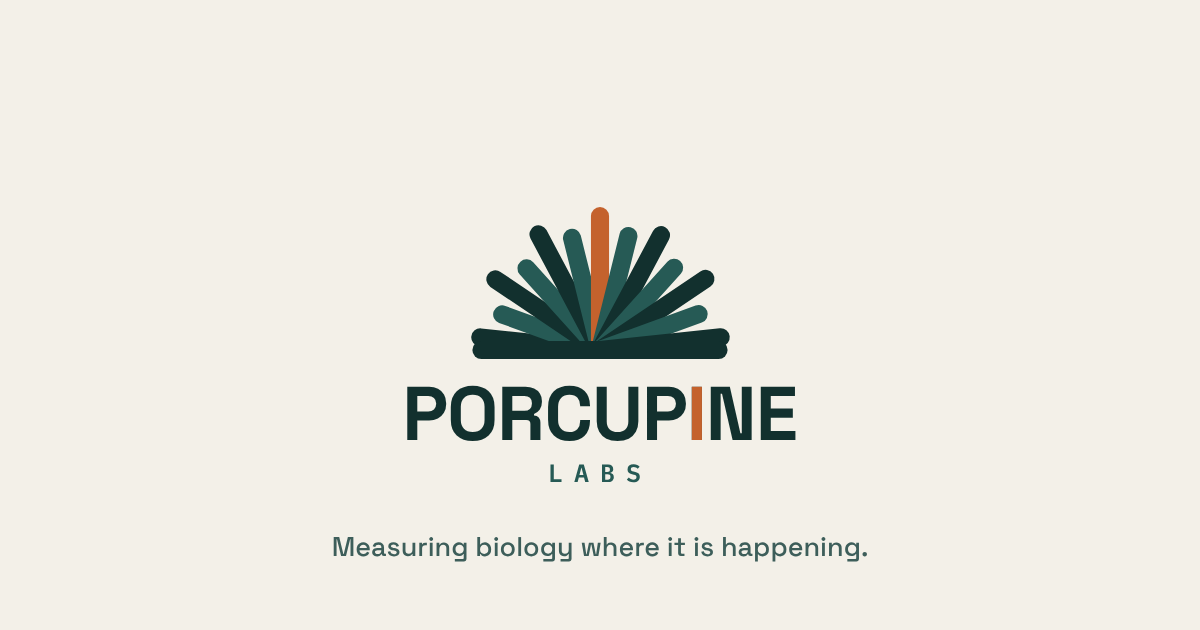
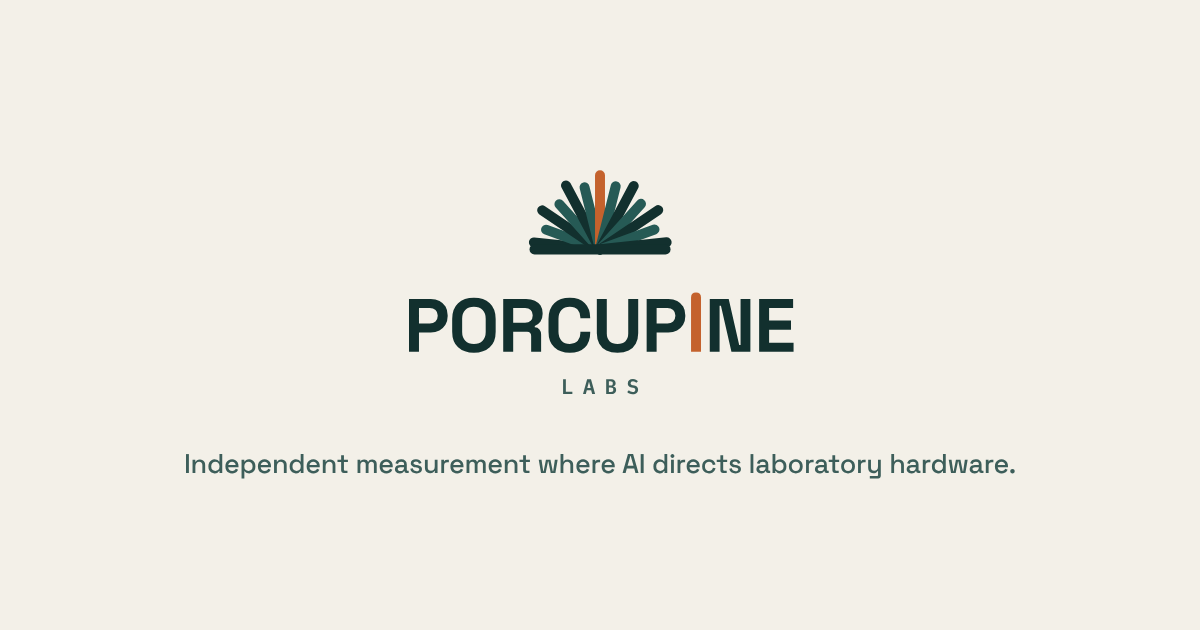
fable update

Changed region(s): [[0.3392, 0.2714, 0.6783, 0.573], [0.1542, 0.6032, 0.8633, 0.7841], [0.2775, 0.8444, 0.74, 0.9048]]

diff --git a/index.html b/index.html
@@ -9,7 +9,7 @@
 <meta property="og:site_name" content="Porcupine Labs">
 <meta property="og:title" content="Porcupine Labs">
 <meta property="og:url" content="https://porcupinelabs.org/">
-<meta property="og:description" content="Measuring biology where it is happening. An independent nonprofit in formation, working at the boundary where AI systems direct physical laboratory hardware.">
+<meta property="og:description" content="Independent measurement where AI directs laboratory hardware. An independent nonprofit in formation, working at the boundary where AI systems direct physical laboratory instruments.">
 <meta property="og:image" content="https://porcupinelabs.org/og.png">
 <meta property="og:image:width" content="1200">
 <meta property="og:image:height" content="630">
@@ -20,9 +20,10 @@
 {"@context":"https://schema.org","@type":"NGO","name":"Porcupine Labs",
 "url":"https://porcupinelabs.org/","logo":"https://porcupinelabs.org/favicon.svg",
 "email":"john@porcupinelabs.org",
-"slogan":"Measuring biology where it is happening.",
-"description":"Independent nonprofit in formation. Works at the boundary where AI systems direct physical laboratory hardware, evaluating properties of execution and the records facilities keep of it.",
+"slogan":"Independent measurement where AI directs laboratory hardware.",
+"description":"Independent nonprofit in formation. Measures whether safety constraints hold where AI systems direct physical laboratory hardware, and whether a facility's records establish afterward what was done.",
 "address":{"@type":"PostalAddress","addressRegion":"CA","addressCountry":"US"},
+"founder":[{"@type":"Person","name":"John D. Tran"},{"@type":"Person","name":"Patrick M. Shih"}],
 "knowsAbout":["biosecurity","laboratory automation","AI safety","provenance","reconstructability"]}
 </script>
 <title>Porcupine Labs</title>
@@ -33,11 +34,12 @@
 <link rel="stylesheet" href="https://fonts.googleapis.com/css2?family=Space+Grotesk:wght@500;700&family=IBM+Plex+Sans:wght@400;500&family=IBM+Plex+Mono:wght@400;600&display=swap">
 <style>
 /* Layout: one 820px column, label left and body right, hairline rules between.
-   Brand palette only. Quill orange appears once, in the I. */
+   Brand palette only. The quill is a stroke: figures are built from top rules and
+   round-capped lines. Quill orange marks where Porcupine works, once per figure. */
 :root{
   --bg:#F3F0E8; --ink:#12302E; --muted:#3D5E5A; --subtle:#6F8783;
   --rule:#D9D2C0; --rule-strong:#12302E; --quill:#C4622D;
-  --mark:#12302E; --mark-lt:#4E7A75;
+  --mark:#12302E; --mark-lt:#265A55;
   --display:"Space Grotesk",system-ui,sans-serif;
   --body:"IBM Plex Sans",system-ui,-apple-system,"Helvetica Neue",sans-serif;
   --mono:"IBM Plex Mono",ui-monospace,SFMono-Regular,Menlo,monospace;
@@ -60,7 +62,7 @@ header{text-align:center;padding-bottom:52px;border-bottom:1px solid var(--rule-
   clip-path:inset(50%);white-space:nowrap}
 .labs{font-family:var(--mono);font-weight:600;font-size:clamp(12px,2.1vw,15px);
   letter-spacing:.44em;color:var(--muted);margin-top:11px;text-indent:.44em}
-.lead{max-width:24ch;margin:38px auto 0;font-family:var(--display);font-weight:500;
+.lead{max-width:26ch;margin:38px auto 0;font-family:var(--display);font-weight:500;
   font-size:clamp(21px,3.4vw,30px);line-height:1.26;letter-spacing:-.015em;
   color:var(--ink);text-wrap:balance}
 
@@ -72,6 +74,33 @@ h2{font-family:var(--display);font-size:15.5px;font-weight:700;letter-spacing:.0
 .body p{color:var(--muted);margin-bottom:16px;max-width:64ch}
 .body p:last-child{margin-bottom:0}
 .body em{font-style:normal;color:var(--ink);font-weight:500}
+.body a,.fig a{color:var(--ink);text-decoration:none;border-bottom:1px solid var(--quill)}
+.tag{font-family:var(--mono);font-size:11px;font-weight:600;letter-spacing:.16em;
+  text-transform:uppercase;color:var(--subtle);display:block}
+
+/* ---- figures: span both columns ---- */
+.fig{grid-column:1/-1}
+.cap{margin-top:18px;color:var(--muted);font-size:14.5px;max-width:70ch}
+
+/* the stack: five stages, each under a top rule */
+.stack{list-style:none;display:grid;grid-template-columns:repeat(5,minmax(0,1fr));gap:18px}
+.stack li{border-top:3px solid var(--mark);padding-top:14px}
+.stack li.q{border-top:6px solid var(--quill);padding-top:11px}
+.stack b{display:block;font-family:var(--display);font-weight:700;font-size:16px;
+  line-height:1.25;margin:8px 0 6px;color:var(--ink)}
+.stack span.d{display:block;color:var(--muted);font-size:14px;line-height:1.45}
+
+/* rows: questions, rungs, record, people */
+.rows{list-style:none}
+.rows li{display:grid;grid-template-columns:88px minmax(0,1fr);gap:18px;
+  padding:14px 0;border-top:1px solid var(--rule)}
+.rows li:last-child{padding-bottom:0}
+.rows b{display:block;font-weight:500;color:var(--ink)}
+.rows .d{display:block;color:var(--muted);font-size:15.5px}
+.rows .tag{padding-top:5px}
+
+/* all-of-k strip */
+.strip{display:block;width:100%;max-width:400px;height:auto;margin-top:22px}
 
 /* ---- footer ---- */
 footer{display:grid;grid-template-columns:200px minmax(0,1fr);gap:36px;
@@ -86,6 +115,10 @@ footer{display:grid;grid-template-columns:200px minmax(0,1fr);gap:36px;
   .container{padding-block:40px 64px}
   header{padding-bottom:38px}
   section,footer{grid-template-columns:1fr;gap:14px;padding-block:34px}
+  .stack{grid-template-columns:1fr;gap:0}
+  .stack li,.stack li.q{border-top:0;border-left:3px solid var(--mark);padding:10px 0 14px 16px}
+  .stack li.q{border-left:6px solid var(--quill);padding-left:13px}
+  .rows li{grid-template-columns:1fr;gap:4px}
 }
 :focus-visible{outline:2px solid var(--quill);outline-offset:3px}
 </style>
@@ -113,7 +146,7 @@ footer{display:grid;grid-template-columns:200px minmax(0,1fr);gap:36px;
     <svg class="wordmark" viewBox="0 0 519.2 82.5" role="img" aria-label="Porcupine"><title>Porcupine</title><g transform="translate(0 80.5)"><g transform="translate(0.000 0) scale(0.100000 -0.100000)"><path fill="#12302E" d="M66 0V700H354Q420 700 470.5 673.5Q521 647 549.5 599.0Q578 551 578 485V471Q578 406 548.5 357.5Q519 309 468.5 282.5Q418 256 354 256H198V0ZM198 376H341Q388 376 417.0 402.0Q446 428 446 473V483Q446 528 417.0 554.0Q388 580 341 580H198Z"/></g><g transform="translate(58.800 0) scale(0.100000 -0.100000)"><path fill="#12302E" d="M338 -14Q206 -14 128.0 58.5Q50 131 50 266V434Q50 569 128.0 641.5Q206 714 338 714Q470 714 548.0 641.5Q626 569 626 434V266Q626 131 548.0 58.5Q470 -14 338 -14ZM338 104Q412 104 453.0 147.0Q494 190 494 262V438Q494 510 453.0 553.0Q412 596 338 596Q265 596 223.5 553.0Q182 510 182 438V262Q182 190 223.5 147.0Q265 104 338 104Z"/></g><g transform="translate(124.800 0) scale(0.100000 -0.100000)"><path fill="#12302E" d="M66 0V700H370Q436 700 485.0 677.0Q534 654 561.0 612.0Q588 570 588 513V501Q588 438 558.0 399.0Q528 360 484 342V324Q524 322 546.0 296.5Q568 271 568 229V0H436V210Q436 234 423.5 249.0Q411 264 382 264H198V0ZM198 384H356Q403 384 429.5 409.5Q456 435 456 477V487Q456 529 430.0 554.5Q404 580 356 580H198Z"/></g><g transform="translate(186.400 0) scale(0.100000 -0.100000)"><path fill="#12302E" d="M332 -14Q202 -14 126.0 58.5Q50 131 50 266V434Q50 569 126.0 641.5Q202 714 332 714Q461 714 531.5 643.5Q602 573 602 450V444H472V454Q472 516 437.5 556.0Q403 596 332 596Q262 596 222.0 553.0Q182 510 182 436V264Q182 191 222.0 147.5Q262 104 332 104Q403 104 437.5 144.5Q472 185 472 246V264H602V250Q602 127 531.5 56.5Q461 -14 332 -14Z"/></g><g transform="translate(249.200 0) scale(0.100000 -0.100000)"><path fill="#12302E" d="M336 -14Q250 -14 188.5 17.5Q127 49 94.5 107.5Q62 166 62 246V700H194V242Q194 178 230.5 141.0Q267 104 336 104Q405 104 441.5 141.0Q478 178 478 242V700H610V246Q610 166 577.5 107.5Q545 49 483.5 17.5Q422 -14 336 -14Z"/></g><g transform="translate(314.800 0) scale(0.100000 -0.100000)"><path fill="#12302E" d="M66 0V700H354Q420 700 470.5 673.5Q521 647 549.5 599.0Q578 551 578 485V471Q578 406 548.5 357.5Q519 309 468.5 282.5Q418 256 354 256H198V0ZM198 376H341Q388 376 417.0 402.0Q446 428 446 473V483Q446 528 417.0 554.0Q388 580 341 580H198Z"/></g><path fill="#C4622D" d="M380.20 0 L380.20 -71.90 Q380.20 -78.50 386.80 -78.50 Q393.40 -78.50 393.40 -71.90 L393.40 0 Z"/><g transform="translate(398.400 0) scale(0.100000 -0.100000)"><path fill="#12302E" d="M66 0V700H317L456 90H474V700H604V0H353L214 610H196V0Z"/></g><g transform="translate(463.800 0) scale(0.100000 -0.100000)"><path fill="#12302E" d="M66 0V700H516V580H198V413H488V293H198V120H522V0Z"/></g></g></svg>
     <h1 class="sr-only">Porcupine Labs</h1>
     <div class="labs">LABS</div>
-    <p class="lead">Measuring biology where it is happening.</p>
+    <p class="lead">Independent measurement where AI directs laboratory hardware.</p>
   </header>
 
   <main>
@@ -121,55 +154,111 @@ footer{display:grid;grid-template-columns:200px minmax(0,1fr);gap:36px;
       <h2>About the Lab</h2>
       <div class="body">
         <p>Porcupine Labs is an independent nonprofit in formation, based in the San Francisco
-          Bay Area and selected into the Catalyze Impact biosecurity accelerator in 2026.
-          We work at the boundary where AI systems direct physical laboratory hardware.</p>
+          Bay Area. We measure whether safety constraints hold at the point where AI systems
+          direct physical laboratory hardware, and whether the records a facility keeps are
+          enough to establish afterward what was done.</p>
+        <p>Porcupine was selected into the Catalyze Impact biosecurity accelerator in 2026.</p>
+      </div>
+    </section>
+
+    <section>
+      <h2>The Gap</h2>
+      <div class="body">
         <p>Laboratory automation is decades old and installed at scale. What changed is who
           writes the script. Synthesis screening, cryptographic provenance and model
           evaluation each work at the point where they sit: acquisition, the digital artifact,
           the instruction. The instrument itself is unchecked, and the record it leaves does
           not distinguish a protocol a person wrote from one a model wrote.</p>
       </div>
-    </section>
-
-    <section>
-      <h2>Research Approach</h2>
-      <div class="body">
-        <p>We evaluate <em>properties of execution</em> rather than properties of models. That
-          means testing how agentic planners, laboratory execution software and robotic
-          instrumentation behave under ambiguous or adversarial instructions, and asking
-          whether a facility's own records are enough to establish afterward what was done.</p>
-        <p>Our first study is read-only. For a completed run chosen after the fact, we ask how
-          much of it a facility can reconstruct from the systems it already runs: the
-          electronic lab notebook, the inventory and sample management system, instrument
-          logs, the scheduler. Those systems were built to operate a laboratory and to satisfy
-          audit, and the open question is whether what they capture is sufficient to establish
-          what an agent-directed run did, down to which software version and which
-          configuration stood behind each decision. What we find turns into technical
-          specification work on log integrity, provenance, and capability-scoped
-          authorization.</p>
+      <div class="fig">
+        <ol class="stack" aria-label="Where each control sits, from order to bench">
+          <li><span class="tag">01 Order</span><b>Synthesis screening</b><span class="d">Verifies sequence intent.</span></li>
+          <li><span class="tag">02 Instruction</span><b>Model refusal</b><span class="d">Tests text and code outputs.</span></li>
+          <li><span class="tag">03 Protocol</span><b>Biosafety review</b><span class="d">Approves the written protocol.</span></li>
+          <li class="q"><span class="tag">04 Execution</span><b>Porcupine</b><span class="d">Measures what happens here.</span></li>
+          <li><span class="tag">05 The bench</span><b>Material moves</b><span class="d">The physical event itself.</span></li>
+        </ol>
+        <p class="cap">A mistake and an intent produce the same physical event at the bench,
+          so a control that reads intent does not reach this layer.</p>
       </div>
     </section>
 
     <section>
-      <h2>Mission</h2>
+      <h2>Why Now</h2>
       <div class="body">
-        <p>Biology has gone digital. Models now work directly on sequence and structure,
-          predicting how a protein folds and proposing designs that hold up at the bench, and
-          capability in that half of the field is improving faster than any tool that came
-          before it. Drug discovery is where the gains are most visible. Learned models are
-          designing antibodies, de novo binders and small-molecule candidates that have
-          reached clinical trials, and each generation of model has arrived stronger than the
-          one before it.</p>
-        <p>The physical half is moving as well. Robotics, computer vision and machine vision
-          are making the handling, imaging and judgment steps of an experiment cheaper and
-          more repeatable each year, which turns work that once depended on a particular pair
-          of hands into work a facility can run at volume.</p>
-        <p>Those two curves are now improving together, and biology is acquiring a scaling
-          effect of a kind the field has not seen. Every one of those advances arrives at the
-          same place: an instrument that moves material. Porcupine works there. We build the
-          evaluation methods and the authorization standard that existing biosecurity
-          frameworks call for but do not specify, so the record of a physical experiment
-          stays intelligible to a person as the number of experiments grows.</p>
+        <p>Models now work directly on sequence and structure, and robotics is making the
+          handling and imaging steps of an experiment cheaper and more repeatable each year.
+          Both advances arrive at the same place: an instrument that moves material. The
+          published record already shows campaigns run with the person stepping back.</p>
+        <ul class="rows">
+          <li><span class="tag">2025</span><div><b><a href="https://doi.org/10.1038/s41467-025-61209-y">Singh et al., Nature Communications</a></b>
+            <span class="d">A platform combining machine learning, large language models and biofoundry automation engineered two enzymes in four rounds over four weeks.</span></div></li>
+          <li><span class="tag">2024</span><div><b><a href="https://doi.org/10.1038/s44286-023-00002-4">Rapp et al., Nature Chemical Engineering</a></b>
+            <span class="d">Self-driving laboratories ran fully autonomous design-test-learn cycles to engineer more thermostable enzymes.</span></div></li>
+          <li><span class="tag">2026</span><div><b><a href="https://www.biorxiv.org/content/10.64898/2026.02.05.703998v1">Smith et al., bioRxiv</a></b>
+            <span class="d">A frontier language model directed a cell-free protein synthesis campaign on a commercial cloud laboratory, with people preparing and loading reagents.</span></div></li>
+        </ul>
+      </div>
+    </section>
+
+    <section>
+      <h2>What We Measure</h2>
+      <div class="body">
+        <p>We evaluate <em>properties of execution</em> rather than properties of models: how
+          agentic planners, laboratory execution software and robotic instrumentation behave
+          together once a protocol is pushed to hardware.</p>
+        <ul class="rows">
+          <li><span class="tag">01</span><div><b>Does the rule still hold?</b>
+            <span class="d">Whether a safety constraint stated upstream still binds when an instrument moves material.</span></div></li>
+          <li><span class="tag">02</span><div><b>Is safe work getting blocked?</b>
+            <span class="d">Scientists lose time when models deny safe, benign experimental requests. We report over-blocking alongside detection, always as a pair.</span></div></li>
+          <li><span class="tag">03</span><div><b>Can the run be reconstructed?</b>
+            <span class="d">Whether a facility's own records establish what was done, and who or what decided each step.</span></div></li>
+        </ul>
+        <svg class="strip" viewBox="0 0 624 90" role="img" aria-label="Eighteen runs drawn as strokes: seventeen within the constraint and one outside it"><line x1="12" y1="12" x2="12" y2="78" stroke="var(--mark)" stroke-width="14" stroke-linecap="round"/><line x1="46" y1="12" x2="46" y2="78" stroke="var(--mark)" stroke-width="14" stroke-linecap="round"/><line x1="80" y1="12" x2="80" y2="78" stroke="var(--mark)" stroke-width="14" stroke-linecap="round"/><line x1="114" y1="12" x2="114" y2="78" stroke="var(--mark)" stroke-width="14" stroke-linecap="round"/><line x1="148" y1="12" x2="148" y2="78" stroke="var(--mark)" stroke-width="14" stroke-linecap="round"/><line x1="182" y1="12" x2="182" y2="78" stroke="var(--mark)" stroke-width="14" stroke-linecap="round"/><line x1="216" y1="12" x2="216" y2="78" stroke="var(--mark)" stroke-width="14" stroke-linecap="round"/><line x1="250" y1="12" x2="250" y2="78" stroke="var(--mark)" stroke-width="14" stroke-linecap="round"/><line x1="284" y1="12" x2="284" y2="78" stroke="var(--mark)" stroke-width="14" stroke-linecap="round"/><line x1="318" y1="12" x2="318" y2="78" stroke="var(--mark)" stroke-width="14" stroke-linecap="round"/><line x1="352" y1="12" x2="352" y2="78" stroke="var(--mark)" stroke-width="14" stroke-linecap="round"/><line x1="386" y1="12" x2="386" y2="78" stroke="var(--mark)" stroke-width="14" stroke-linecap="round"/><line x1="420" y1="12" x2="420" y2="78" stroke="var(--quill)" stroke-width="14" stroke-linecap="round"/><line x1="454" y1="12" x2="454" y2="78" stroke="var(--mark)" stroke-width="14" stroke-linecap="round"/><line x1="488" y1="12" x2="488" y2="78" stroke="var(--mark)" stroke-width="14" stroke-linecap="round"/><line x1="522" y1="12" x2="522" y2="78" stroke="var(--mark)" stroke-width="14" stroke-linecap="round"/><line x1="556" y1="12" x2="556" y2="78" stroke="var(--mark)" stroke-width="14" stroke-linecap="round"/><line x1="590" y1="12" x2="590" y2="78" stroke="var(--mark)" stroke-width="14" stroke-linecap="round"/></svg>
+        <p class="cap">Safety is not an average. Seventeen runs within a constraint and one
+          outside it is a failure.</p>
+      </div>
+    </section>
+
+    <section>
+      <h2>Reconstructability</h2>
+      <div class="body">
+        <p>Science has always required reproducibility: whether another scientist can get the
+          same result. Reconstructability asks whether anyone can establish what was actually
+          done, and who or what decided each step. The laboratory notebook carried that
+          implicitly, because a person wrote it and that person could be asked.</p>
+        <ul class="rows">
+          <li><span class="tag">Rung 1</span><div><b>The operator, from their own records</b></div></li>
+          <li><span class="tag">Rung 2</span><div><b>An independent third party, from records the operator supplies</b></div></li>
+          <li><span class="tag">Rung 3</span><div><b>A future scientist with no relationship to the lab, from the published record</b></div></li>
+        </ul>
+      </div>
+    </section>
+
+    <section>
+      <h2>Independence</h2>
+      <div class="body">
+        <p>Porcupine sells nothing to any laboratory. Findings go to the participating
+          facility first, and publication is anonymized unless the facility decides
+          otherwise.</p>
+        <p>Null results are published on the same timeline as positive ones, and the
+          conditions under which we would stop are written before the first site. What we find
+          turns into an open specification, published free.</p>
+      </div>
+    </section>
+
+    <section>
+      <h2>People</h2>
+      <div class="body">
+        <ul class="rows">
+          <li><span class="tag">Co-founder</span><div><b>John D. Tran, PhD</b>
+            <span class="d">PhD in molecular biology, spent at the bench running the protocols these systems now automate. Former Chief Business Officer of a modular laboratory automation company. Reviewer for NSF, DOE and ARPA-E.</span></div></li>
+          <li><span class="tag">Co-founder</span><div><b>Patrick M. Shih, PhD</b>
+            <span class="d">Associate Professor of Plant and Microbial Biology, UC Berkeley. Director, Plant Biosystems Design Program, Joint BioEnergy Institute. Faculty Scientist, Lawrence Berkeley National Laboratory.</span></div></li>
+          <li><span class="tag">Advisor</span><div><b>Thom Norman</b>
+            <span class="d">Through the Catalyze Impact biosecurity accelerator.</span></div></li>
+        </ul>
       </div>
     </section>
   </main>
@@ -179,8 +268,13 @@ footer{display:grid;grid-template-columns:200px minmax(0,1fr);gap:36px;
     <div>
       <a class="addr" href="mailto:john@porcupinelabs.org">john [@] porcupinelabs [.] org</a>
       <p class="fnote">We are looking for facility operators willing to host a read-only
-        provenance exercise, and for reviewers on the first version of the authorization
-        standard.</p>
+        exercise on completed runs, and for reviewers on the first version of the
+        specification.</p>
+      <p class="fnote">We would also like to hear from makers of automated and specialized
+        laboratory instruments, laboratory robotics companies, developers of AI models for
+        biology, and teams building automation software for biology. If you want to
+        collaborate, or to explore a role at Porcupine Labs, please email John at the address
+        above.</p>
     </div>
   </footer>
 </div>
